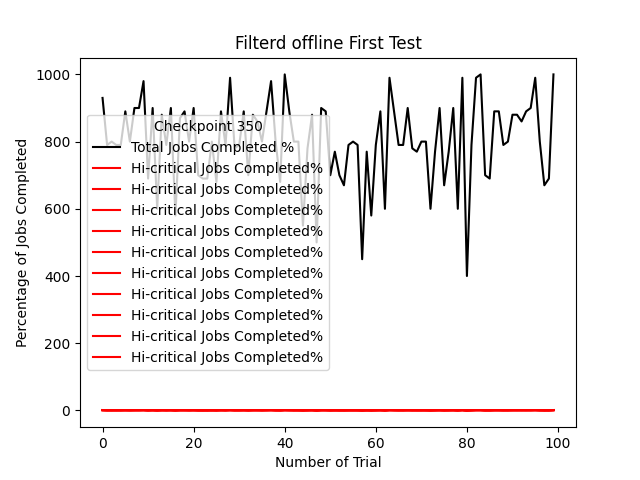
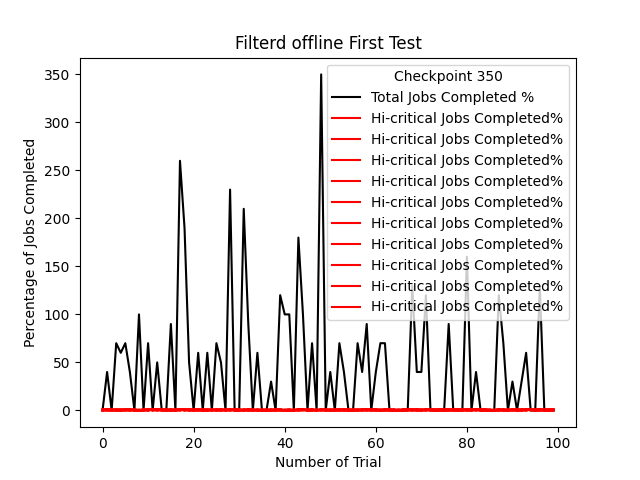
Testing eValuation

Changed region(s): [[0.0312, 0.125, 0.875, 0.875], [0.0625, 0.125, 0.125, 0.1875]]

diff --git a/Designning the System Latest/evaluation.py b/Designning the System Latest/evaluation.py
@@ -9,17 +9,18 @@ import numpy as np
 
 register(
     id='MC-v0',
-    entry_point='env.job_gen_env:MCEnv',
+    entry_point='env.job_gen_env:MCOEnv',
     max_episode_steps=20,
 
 )
 #checkpoint_path = 'APEX/APEX_my_env_0_2020-07-08_20-02-02lxf9cfz8/checkpoint_100/checkpoint-100'
 #checkpoint_path ='/home/ml2/ray_results/APEX/APEX_OfflineParametricAction_env_0_2020-08-12_19-08-178l0hppoa/checkpoint_100/checkpoint-100'
 
-checkpoint_path='/home/youssefhussien/ray_results/APEX_2021-04-26_19-03-05/APEX_online_newdummy_thetaOne_07f35_00000_0_2021-04-26_19-03-05/checkpoint_400/checkpoint-400'
-checkpoint_path = '/home/youssefhussien/ray_results/APEX_2021-04-25_19-02-11/APEX_no_speed_offline_bd828_00000_0_2021-04-25_19-02-11/checkpoint_400/checkpoint-400'
+checkpoint_path='/home/youssefhussien/ray_results/APEX_2021-04-26_19-03-05/APEX_online_newdummy_thetaOne_07f35_00000_0_2021-04-26_19-03-05/checkpoint_300/checkpoint-300'
+#checkpoint_path = '/home/youssefhussien/ray_results/APEX_2021-04-25_19-02-11/APEX_no_speed_offline_bd828_00000_0_2021-04-25_19-02-11/checkpoint_400/checkpoint-400'
+#checkpoint_path='/home/youssefhussien/ray_results/APEX_2021-04-26_02-08-53/APEX_VB_newdummy_5997f_00000_0_2021-04-26_02-08-53/checkpoint_400/checkpoint-400'
 ray.init()
-env = MCEnv()
+env = MCOEnv()
 #gym.make('MC-v0')
 register_env("Online_Theta_evaluation", lambda env_config: env)
 agent = ApexTrainer(config={"env": "Online_Theta_evaluation", "num_workers": 8, "num_gpus": 0})
@@ -41,7 +42,7 @@ for i in range(10):
         #print("Obse was printed above: \n")
         #env.degradation_schedule = 0
         #env.degradation_speed = 1
-        #env.theta = theta
+        env.theta = theta
         total = 0
         for m in range(10):
             action = policy.compute_actions([obs])#(env)

diff --git a/Designning the System Latest/env/job_gen_env_filtered.py b/Designning the System Latest/env/job_gen_env_filtered.py
@@ -455,7 +455,7 @@ class MCOEnv(gym.Env):
         #------------------#
         self.workload = np.abs(workload)
         self.action_space = Discrete(self.buffer_length+1)
-        self.observation_space = Dict({
+        self.observation_space_dict = Dict({
             # 'action_mask': Box(0, 1, shape=(self.buffer_length+1,)),
             # 'avail_actions': Box(-np.inf, np.inf, shape=(self.buffer_length+1, 4)),
             # 'MCenv': Dict({
@@ -464,7 +464,7 @@ class MCOEnv(gym.Env):
             'Processor': Box(low=np.array([0., 0.]), high=np.array([1, np.inf])),
             })
         # })
-        #self.observation_space= flatten_space(self.observation_space_dict)
+        self.observation_space= flatten_space(self.observation_space_dict)
         #self.workload[:, 4][self.time >= self.workload[:, 0]] = 1 (KF)
         #self.workload[:, 5][self.time + self.workload[:, 2]/self.speed > self.workload[:, 1]] = 1 (KF)#jobs that can't be done anyways
         #TODO: handle cases of multiple switches between degradation and normal execution
@@ -671,8 +671,8 @@ class MCOEnv(gym.Env):
         # print("Action_masking ", self.action_mask)
         # print("T: ",self.time,"S: ", self.speed)
         # #---#
-        #return flatten(self.observation_space_dict,obs_dict)
-        return obs_dict
+        return flatten(self.observation_space_dict,obs_dict)
+        #return obs_dict
 
     def reset(self):
         self.time = 0
